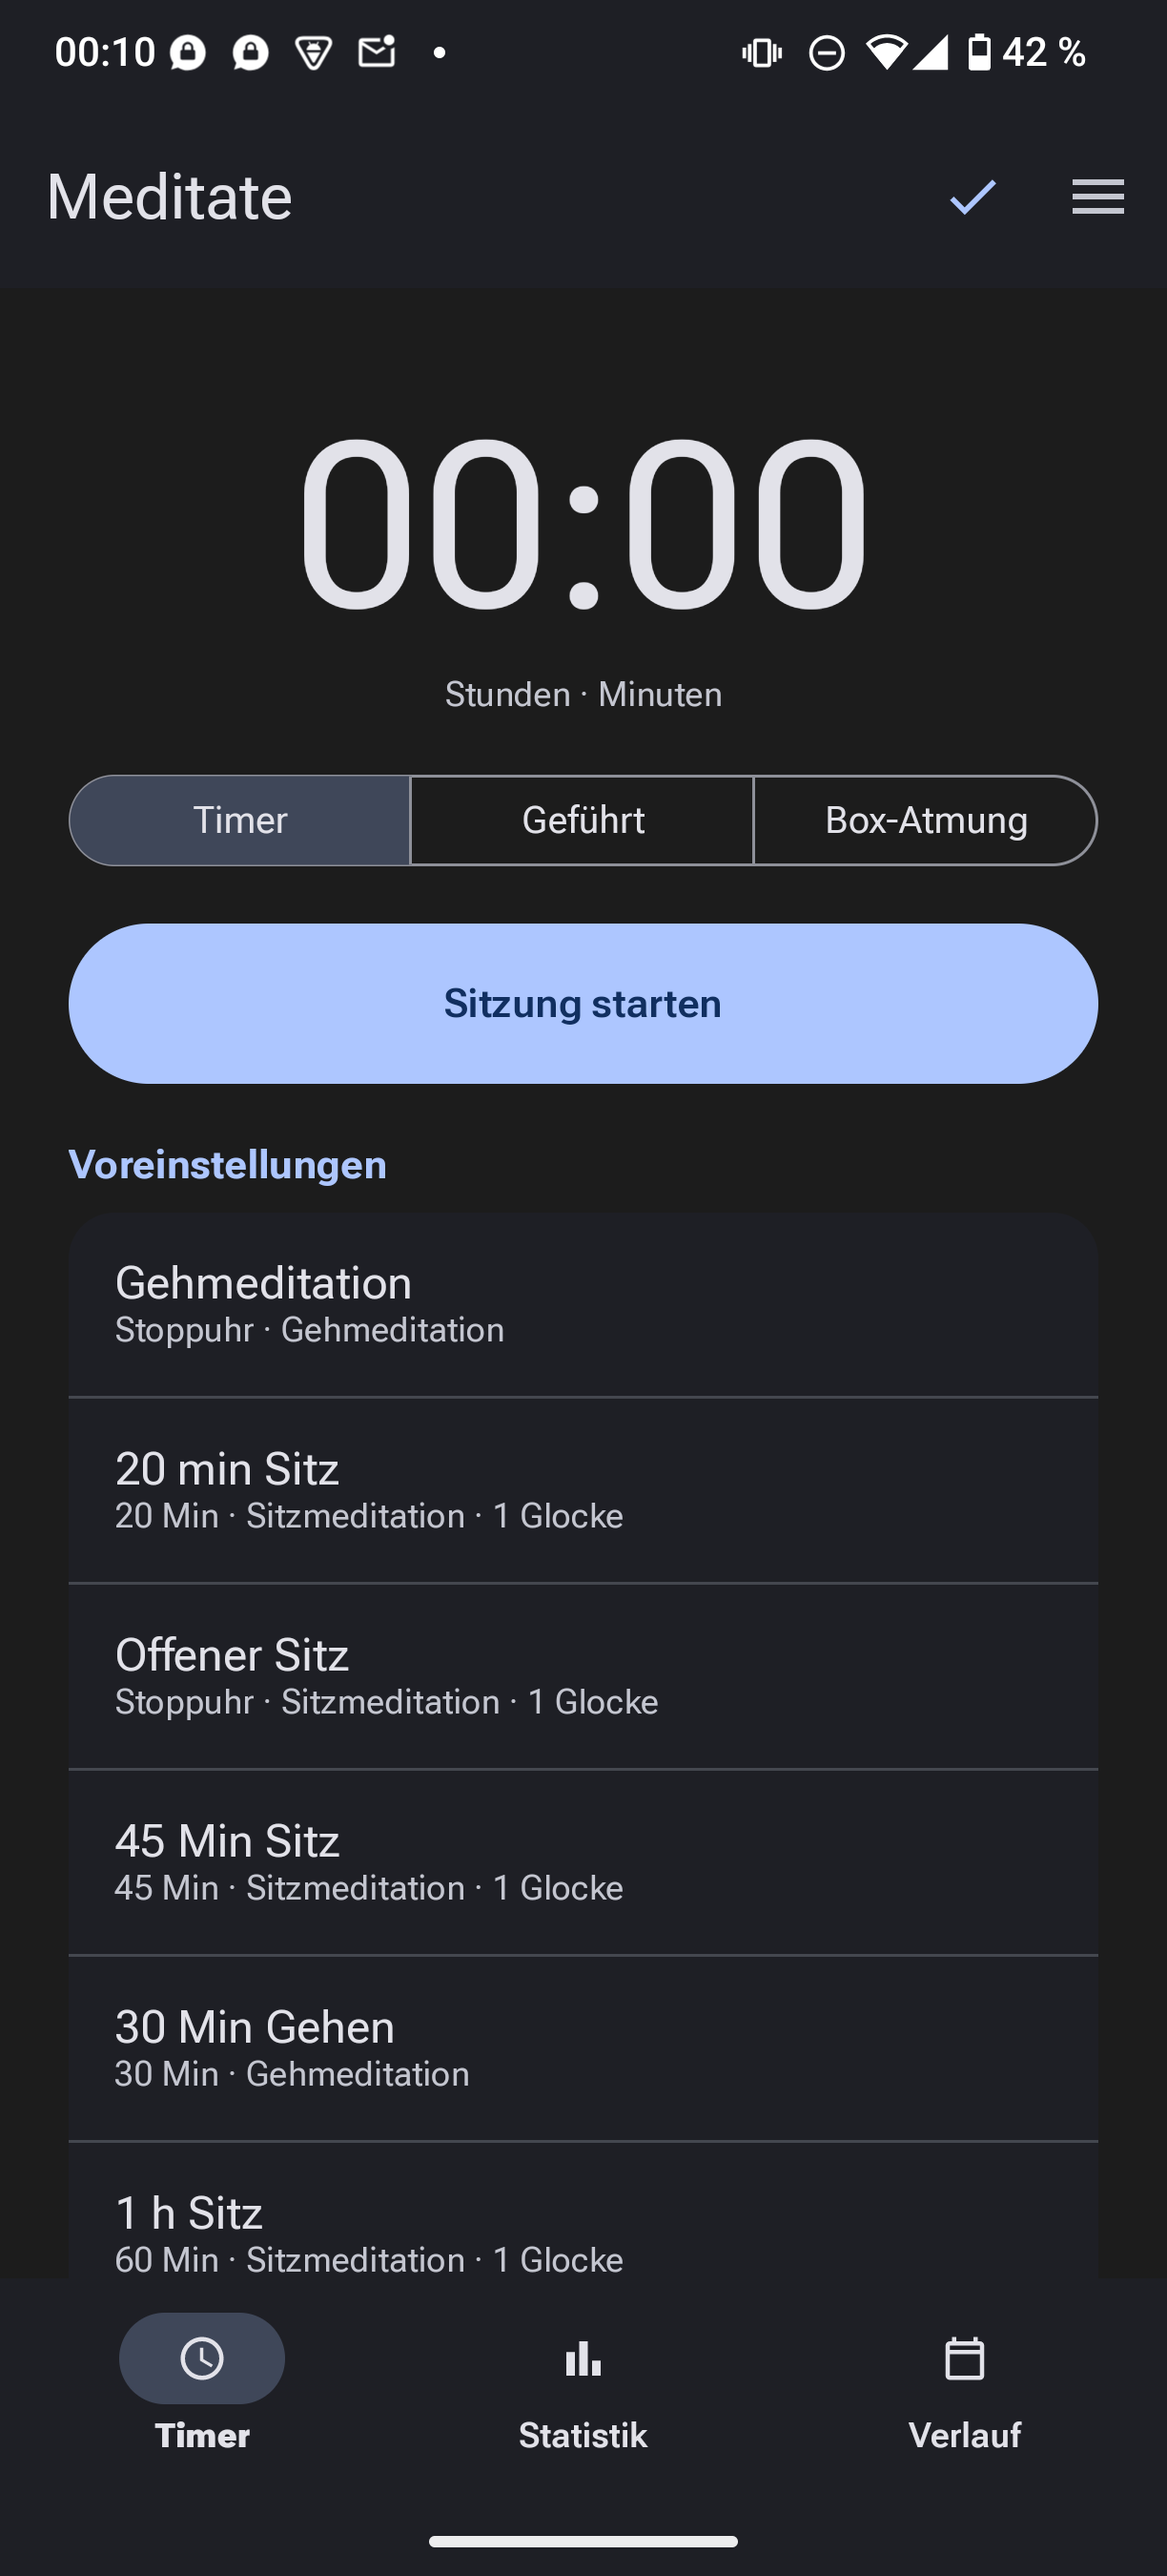
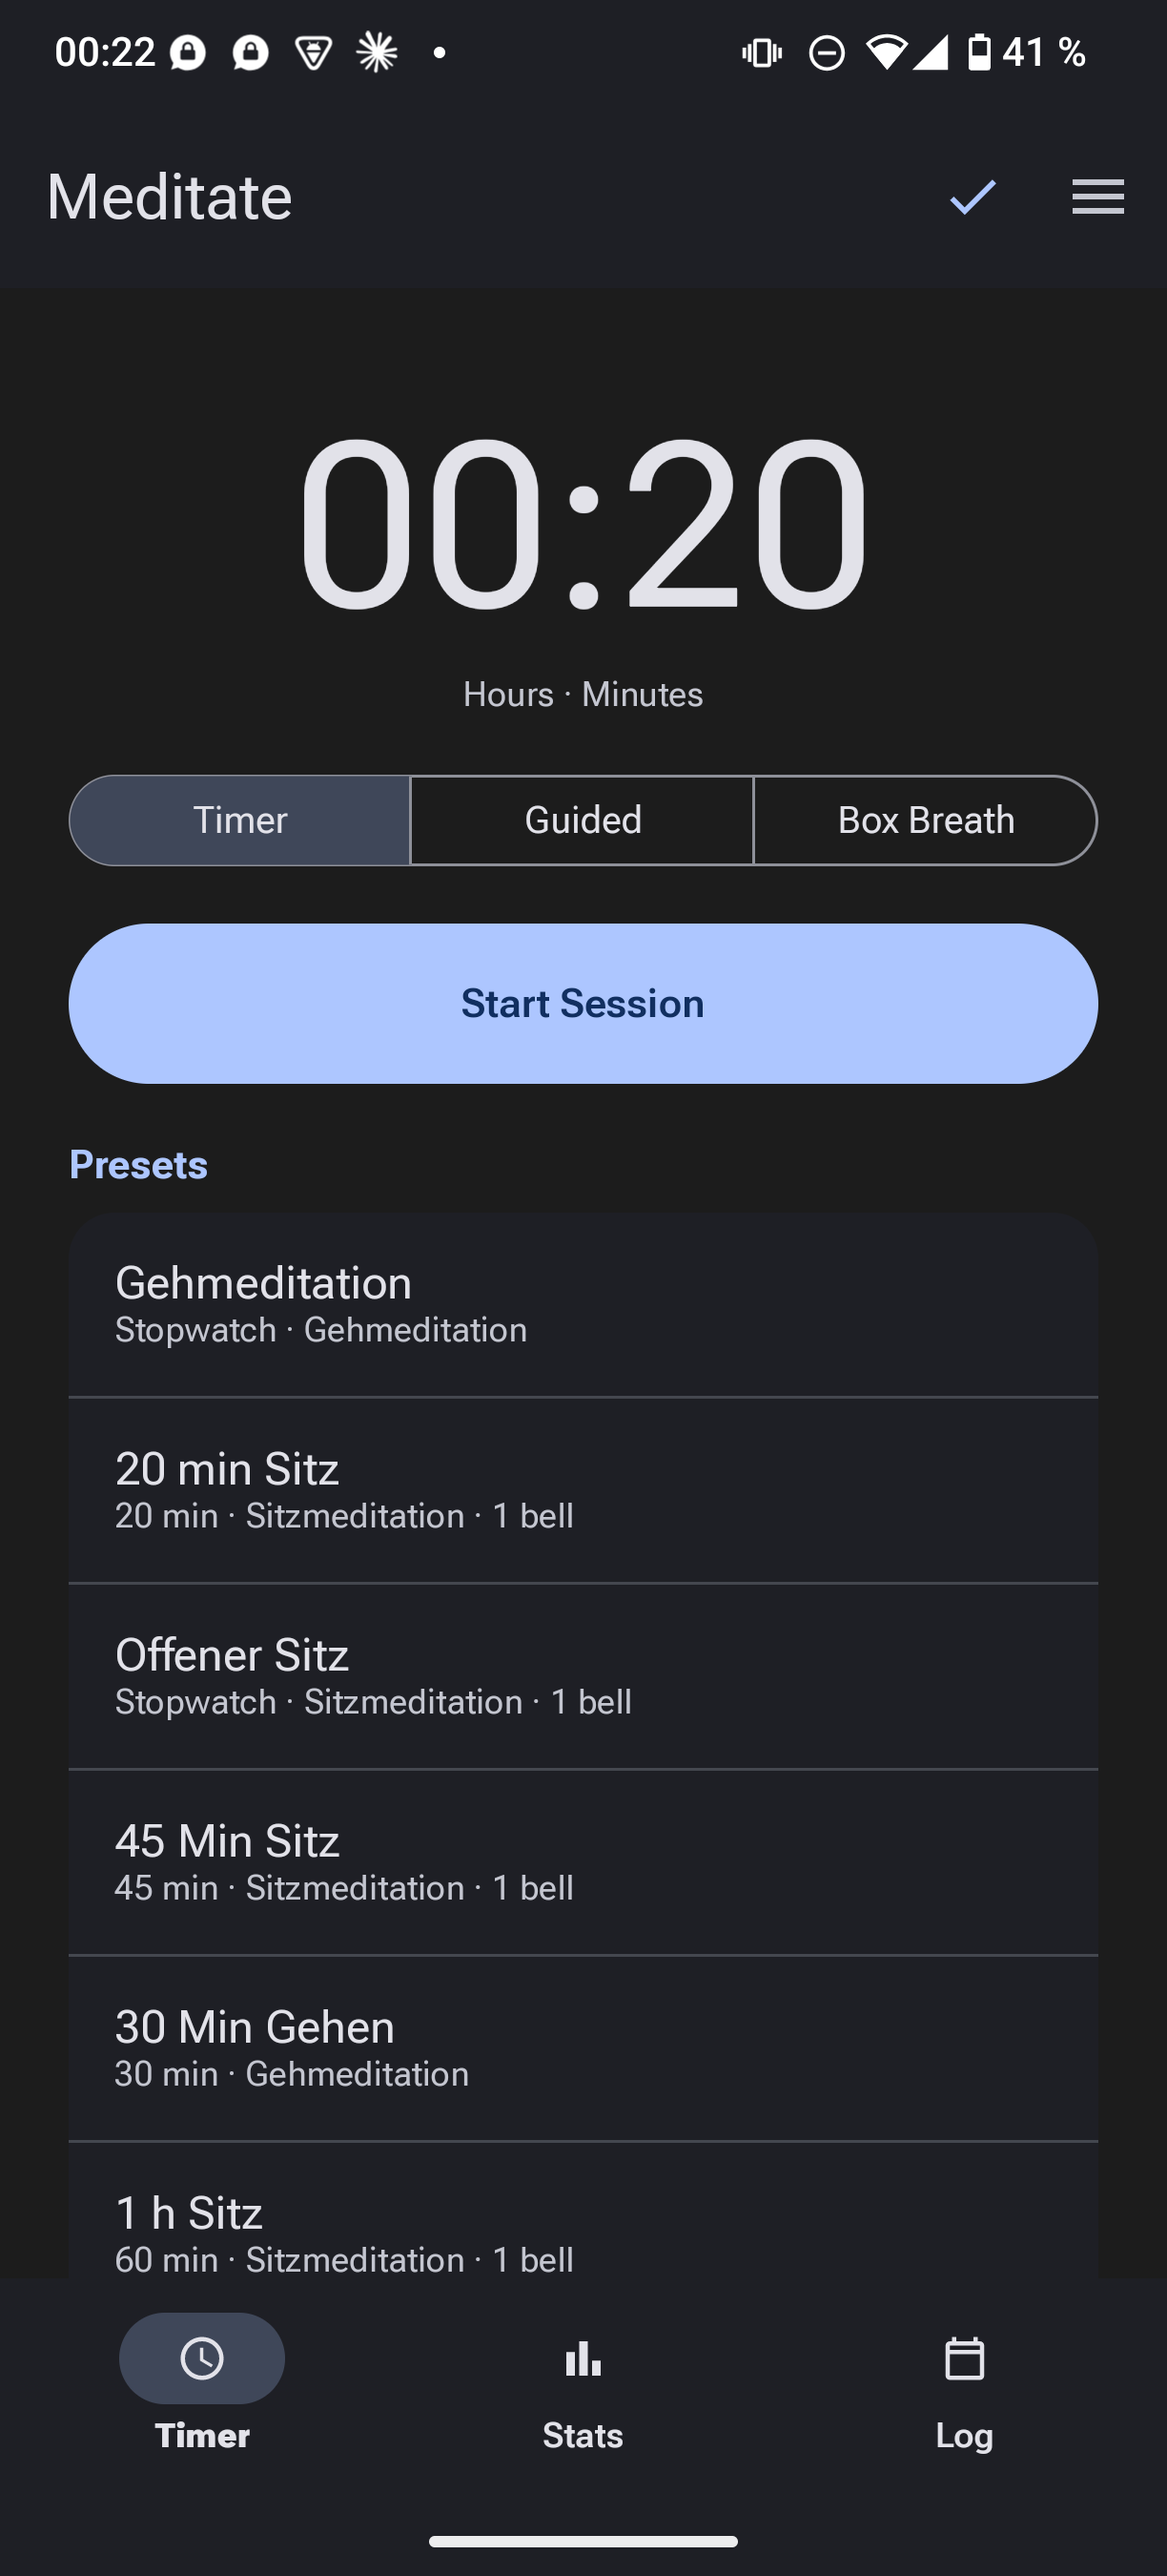
android: per-language screenshots + select translation before populate
select_bundled_translation ran after build_ui's setup passes, so
Rust-composed strings (preset subtitles, bell summaries) froze in
slint's sys-locale auto-pick language and ignored Android's
per-app language setting. Selection now happens at the top of
build_ui, right after the component registers the bundle and
before anything composes strings.

fastlane: English screenshots (captured under a per-app en-US
locale) in en-US, German set moved to de-DE.

diff --git a/meditate-android/src/lib.rs b/meditate-android/src/lib.rs
@@ -3815,6 +3815,24 @@ struct GuidedSel {
 fn build_ui() -> MainWindow {
     let ui = MainWindow::new().unwrap();
 
+    // i18n (P8): select the bundled translation FIRST — the
+    // component above registered the bundle (before it,
+    // select_bundled_translation sees an empty context), and
+    // everything below composes Rust-side strings through Tr,
+    // which freeze in whatever language is active right now.
+    // The Java-side locale honours Android's per-app language
+    // setting, unlike slint's sys-locale auto-pick.
+    #[cfg(target_os = "android")]
+    if let Some(app) = android_app() {
+        let lang = about::locale_language(app);
+        if let Err(e) = slint::select_bundled_translation(&lang) {
+            meditate_core::log(
+                "i18n",
+                &format!("no bundled translation for {lang}: {e:?}"),
+            );
+        }
+    }
+
     // Wire Material's DatePickerAdapter globals (L-4c). The
     // calendar widget calls these six pure callbacks to compute
     // month-day-counts, render headers, and parse / format the
@@ -10516,34 +10534,17 @@ fn android_main(android_app: slint::android::AndroidApp) {
     // bridges keep targeting the destroyed activity.
     set_android_app(android_app.clone());
     open_database(&android_app);
-    // Keep a handle past the init below — init consumes the
-    // parameter, and the parameter name shadows the android_app()
-    // accessor in this scope.
-    let app_handle = android_app.clone();
     slint::android::init(android_app).unwrap();
+    // Translation selection happens at the top of build_ui (via
+    // the android_app() accessor set above) — it must precede
+    // every Rust-composed string (preset subtitles, bell
+    // summaries) those setup passes populate.
     let ui = build_ui();
-    // i18n (P8): pick the bundled translation matching the Java-side
-    // locale, which honours Android's per-app language setting. MUST
-    // run after the first component is built — earlier the global
-    // context is empty and select_bundled_translation reports
-    // NoTranslationsBundled while slint's sys-locale auto-pick (which
-    // fires during build_ui) silently wins instead. Unknown languages
-    // fail the select and keep English msgids — exactly the fallback
-    // we want.
-    {
-        let lang = about::locale_language(&app_handle);
-        if let Err(e) = slint::select_bundled_translation(&lang) {
-            meditate_core::log(
-                "i18n",
-                &format!("no bundled translation for {lang}: {e:?}"),
-            );
-        }
-    }
     // Seed the widget projection once at startup so a widget added
     // while the app was dead still renders the current starred set
     // on first pull (it no-ops when no widget is installed). Sits
-    // after build_ui + translation select so the subtitles come out
-    // in the user's language.
+    // after build_ui (= after translation select) so the subtitles
+    // come out in the user's language.
     refresh_widget(&ui);
     MaterialWindowAdapter::get(&ui).set_disable_hover(true);
     // Launch sync (SY-4). The runner no-ops fast on an
